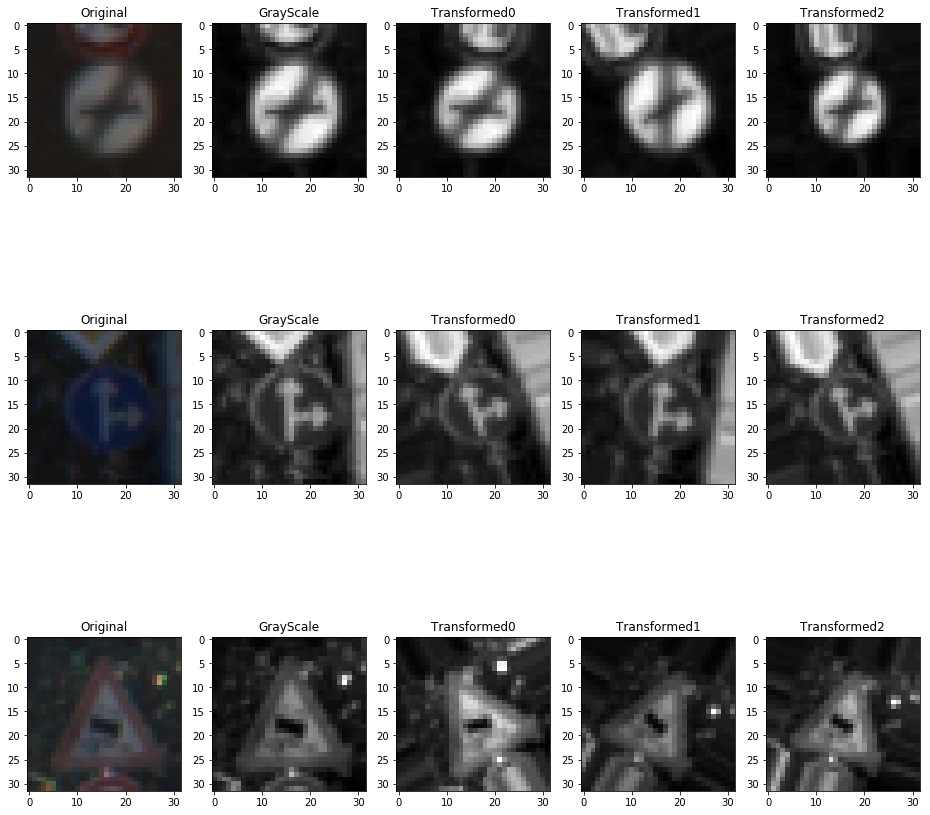
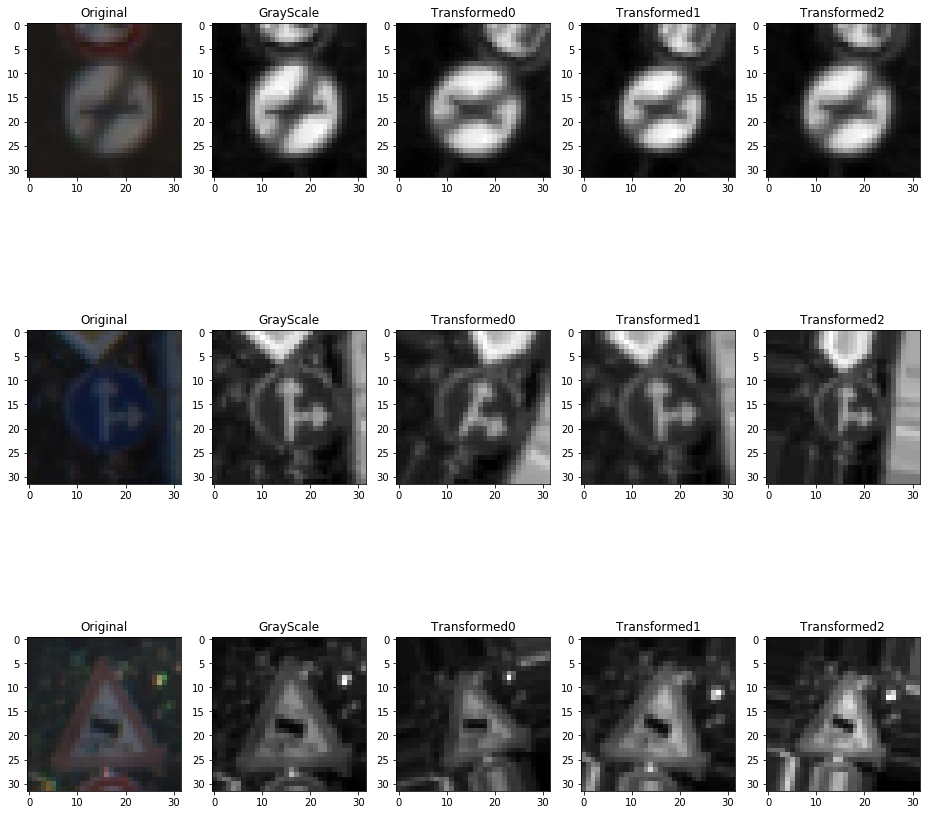
More writeup updates.

diff --git a/writeup.md b/writeup.md
@@ -1,8 +1,8 @@
-#**Traffic Sign Recognition** 
+# **Traffic Sign Recognition** 
 
-##Writeup Template
+## Writeup Template
 
-###You can use this file as a template for your writeup if you want to submit it as a markdown file, but feel free to use some other method and submit a pdf if you prefer.
+### You can use this file as a template for your writeup if you want to submit it as a markdown file, but feel free to use some other method and submit a pdf if you prefer.
 
 ---
 
@@ -22,22 +22,28 @@ The goals / steps of this project are the following:
 [dataset_vis]: ./images/writeup/dataset_vis.png "Visualization"
 [dataset_augmentation]: ./images/writeup/dataset_augmentation.png "Dataset Pre-processing"
 [new_images]: ./images/writeup/new_images.png "New Images"
-[new_image_results]: ./images/writeup/new_image_results "Classification of New Images"
+[new_image_results]: ./images/writeup/new_image_results.png "Classification of New Images"
 [layer1_vis]: ./images/writeup/layer_vis_1.png "Layer-1 Visualization"
 [layer2_vis]: ./images/writeup/layer_vis_2.png "Layer-2 Visualization"
 [layer3_vis]: ./images/writeup/layer_vis_3.png "Layer-3 Visualization"
 [layer4_vis]: ./images/writeup/layer_vis_4.png "Layer-4 Visualization"
 [layer5_vis]: ./images/writeup/layer_vis_5.png "Layer-5 Visualization"
 [layer6_vis]: ./images/writeup/layer_vis_6.png "Layer-6 Visualization"
+[layer1_vis_2]: ./images/writeup/layer_vis_1_1.png "Layer-1 Visualization"
+[layer2_vis_2]: ./images/writeup/layer_vis_2_1.png "Layer-2 Visualization"
+[layer3_vis_2]: ./images/writeup/layer_vis_3_1.png "Layer-3 Visualization"
+[layer4_vis_2]: ./images/writeup/layer_vis_4_1.png "Layer-4 Visualization"
+[layer5_vis_2]: ./images/writeup/layer_vis_5_1.png "Layer-5 Visualization"
+[layer6_vis_2]: ./images/writeup/layer_vis_6_1.png "Layer-6 Visualization"
 [inception_layer]: ./images/writeup/inception_layer.png "Inception Layer"
 
 ## Rubric Points
-###Here I will consider the [rubric points](https://review.udacity.com/#!/rubrics/481/view) individually and describe how I addressed each point in my implementation.  
+### Here I will consider the [rubric points](https://review.udacity.com/#!/rubrics/481/view) individually and describe how I addressed each point in my implementation.  
 
 ---
-###Writeup / README
+### Writeup / README
 
-####1. Provide a Writeup / README that includes all the rubric points and how you addressed each one. You can submit your writeup as markdown or pdf. You can use this template as a guide for writing the report. The submission includes the project code.
+#### 1. Provide a Writeup / README that includes all the rubric points and how you addressed each one. You can submit your writeup as markdown or pdf. You can use this template as a guide for writing the report. The submission includes the project code.
 
 You're reading it! 
 
@@ -46,9 +52,9 @@ You're reading it!
 [HTML Export](https://github.com/cainex/CarND-Traffic-Sign-Classifier-Project/blob/master/Traffic_Sign_Classifier.html)
 
 
-###Data Set Summary & Exploration
+### Data Set Summary & Exploration
 
-####1. Provide a basic summary of the data set. In the code, the analysis should be done using python, numpy and/or pandas methods rather than hardcoding results manually.
+#### 1. Provide a basic summary of the data set. In the code, the analysis should be done using python, numpy and/or pandas methods rather than hardcoding results manually.
 
 Size and shape of training, validation and testing sets was determined by the NumPY shape of the variables filled in by reading in the pickled dataset.
 
@@ -60,15 +66,15 @@ The number of classes was determined by reading in the provided CSV file using t
 * Image data shape = (32, 32, 3)
 * Number of classes = 43
 
-####2. Include an exploratory visualization of the dataset.
+#### 2. Include an exploratory visualization of the dataset.
 
 Below is a visualization of the provided data sets. The histograms show the distribution of each class within the three datasets. We can see that the distribution of images is not uniform across all classes, with many classes being under-represented. A sampling of images is show (along with the corresponding grayscaled version of the image).
 
 ![alt text][dataset_vis]
 
-###Design and Test a Model Architecture
+### Design and Test a Model Architecture
 
-####1. Describe how you preprocessed the image data. What techniques were chosen and why did you choose these techniques? Consider including images showing the output of each preprocessing technique. Pre-processing refers to techniques such as converting to grayscale, normalization, etc. (OPTIONAL: As described in the "Stand Out Suggestions" part of the rubric, if you generated additional data for training, describe why you decided to generate additional data, how you generated the data, and provide example images of the additional data. Then describe the characteristics of the augmented training set like number of images in the set, number of images for each class, etc.)
+#### 1. Describe how you preprocessed the image data. What techniques were chosen and why did you choose these techniques? Consider including images showing the output of each preprocessing technique. Pre-processing refers to techniques such as converting to grayscale, normalization, etc. (OPTIONAL: As described in the "Stand Out Suggestions" part of the rubric, if you generated additional data for training, describe why you decided to generate additional data, how you generated the data, and provide example images of the additional data. Then describe the characteristics of the augmented training set like number of images in the set, number of images for each class, etc.)
 
 The pre-processing steps for the input images is a simple 3-stage pipeline:
 
@@ -85,7 +91,7 @@ The resulting dataset has 4 images for each image provided in the pickled datase
 ![alt text][dataset_augmentation]
 
 
-####2. Describe what your final model architecture looks like including model type, layers, layer sizes, connectivity, etc.) Consider including a diagram and/or table describing the final model.
+#### 2. Describe what your final model architecture looks like including model type, layers, layer sizes, connectivity, etc.) Consider including a diagram and/or table describing the final model.
 
 The final model I created, TrafficSignNet, was inspired by [GoogLeNet](https://www.cs.unc.edu/~wliu/papers/GoogLeNet.pdf). The main distinguishing feature of GoogLeNet is the use of [inception layers](https://www.quora.com/How-does-the-Inception-module-work-in-GoogLeNet-deep-architecture), which I have used in my model. An inception layer consists of 4 parallel layers which operate on the input to the layer, and are concatenated in the depth dimension at the output of the layer:
 
@@ -113,11 +119,11 @@ My final model consisted of the following layers:
 | Fully Connected       |                   |         |                | 43         |
 
 
-####3. Describe how you trained your model. The discussion can include the type of optimizer, the batch size, number of epochs and any hyperparameters such as learning rate.
+#### 3. Describe how you trained your model. The discussion can include the type of optimizer, the batch size, number of epochs and any hyperparameters such as learning rate.
 
 The model was trained using the AdamOptimizer reducing the mean of the cross entropy. The training was performed using a single machine with a Core i5 4670 and a GTX 1080 GPU using a batch size of 128, a learning rate of 0.001, and a dropout of 60%. The training was performed over 30 epochs, with the data set being shuffled between each epoch. The model was saved at each epoch if the validation accuracy was equal to or greater than the validation accuracy of all previous epochs. This captures the best trained model accross all epochs. Using this method could have allowed for early stopping when no more improvement of accuracy was seen, but this didn't seem necessary with 30 epochs. Each epoch ran at approximately 60 iterations/s.
 
-####4. Describe the approach taken for finding a solution and getting the validation set accuracy to be at least 0.93. Include in the discussion the results on the training, validation and test sets and where in the code these were calculated. Your approach may have been an iterative process, in which case, outline the steps you took to get to the final solution and why you chose those steps. Perhaps your solution involved an already well known implementation or architecture. In this case, discuss why you think the architecture is suitable for the current problem.
+#### 4. Describe the approach taken for finding a solution and getting the validation set accuracy to be at least 0.93. Include in the discussion the results on the training, validation and test sets and where in the code these were calculated. Your approach may have been an iterative process, in which case, outline the steps you took to get to the final solution and why you chose those steps. Perhaps your solution involved an already well known implementation or architecture. In this case, discuss why you think the architecture is suitable for the current problem.
 
 My final model results were:
 * Training set accuracy of 99.9%
@@ -126,63 +132,115 @@ My final model results were:
 
 Although this did fluctuate some between different training runs.
 
-If an iterative approach was chosen:
-* What was the first architecture that was tried and why was it chosen?
-* What were some problems with the initial architecture?
-* How was the architecture adjusted and why was it adjusted? Typical adjustments could include choosing a different model architecture, adding or taking away layers (pooling, dropout, convolution, etc), using an activation function or changing the activation function. One common justification for adjusting an architecture would be due to overfitting or underfitting. A high accuracy on the training set but low accuracy on the validation set indicates over fitting; a low accuracy on both sets indicates under fitting.
-* Which parameters were tuned? How were they adjusted and why?
-* What are some of the important design choices and why were they chosen? For example, why might a convolution layer work well with this problem? How might a dropout layer help with creating a successful model?
+I took an iterative approach while developing this model. I initially started with the LeNet model from previous labs. First, I adjusted the first layer to accept the 32x32x1 input shape used in the provided dataset, and adjusted the fully connected layers to reduce down to the 43 output classes. The initial results did not meet the 93% accuracy requirement with only these adjustments.
 
-If a well known architecture was chosen:
-* What architecture was chosen?
-* Why did you believe it would be relevant to the traffic sign application?
-* How does the final model's accuracy on the training, validation and test set provide evidence that the model is working well?
- 
+My next step was to increase the depth of the convolutional layers and adding 1x1 convolutions after each convolution layer to then reduce the depth before max pooling. I also added dropout to the fully-connected layers. With these changes the accuracy on the validation set was much better, but the performance on the additional images was very poor.
 
-###Test a Model on New Images
+I then abandoned this model (still present as TrafficSignGrayNet) to develop the final model inspired by GoogLeNet. While taking some inspiration from GoogLeNet, using the full GoogLeNet network would have been overkill, as it is very large. My first attempt was to replace the convolution layers of my first model with the convolution layers followed by inception layers, but keeping the fully-connected layers in place. While this worked well, the training time was longer, and the performance on the additional images suffered a bit with images that were rotated or scaled/transformed. I then replaced the fully-connected layers with the global average pooling with dropout and a small final fully-connected layer. With this model, the results were conistently in the 97-98% range and performed well on the additional images.
 
-####1. Choose five German traffic signs found on the web and provide them in the report. For each image, discuss what quality or qualities might be difficult to classify.
+At this point, I turned my attention to augmenting the dataset to get slightly better results. I noticed that the model did not always do well with correctly classifying images that were rotated or scaled and translated. So, I augmented the training set with this in mind. This helped to increase the accuracy on images that were transformed in some way, and provided the final accuracy numbers.
 
-Here are five German traffic signs that I found on the web:
+Things I tried that didn't have any noticeable effect or made results worse:
 
-![alt text][image4] ![alt text][image5] ![alt text][image6] 
-![alt text][image7] ![alt text][image8]
+1) Adjusting contrast levels in the pre-processing stage
 
-The first image might be difficult to classify because ...
+    I noticed that in the training set, many images were dark or had poor contrast, even after converting to grayscale. I tried using histogram equalization on the images using OpenCV, but this caused the performance of the model to degrade
 
-####2. Discuss the model's predictions on these new traffic signs and compare the results to predicting on the test set. At a minimum, discuss what the predictions were, the accuracy on these new predictions, and compare the accuracy to the accuracy on the test set (OPTIONAL: Discuss the results in more detail as described in the "Stand Out Suggestions" part of the rubric).
+2) Increasing batch size
+
+    I tried various different batch sizes: 128, 256, 512. What I observed was that with larger batch sizes, the training time was slightly lower, but the number of epochs required was much higher, and I could never get results that were as good as the initial batch size of 128. There seemed to be more overfitting with the delta between the training accuracy and validation accuracy being higher than with the smaller 128 image batch size.
+
+
+### Test a Model on New Images
+
+#### 1. Choose five German traffic signs found on the web and provide them in the report. For each image, discuss what quality or qualities might be difficult to classify.
+
+I found 12 images from the internet, cropped and resized to make them 32x32 images. I then created two additional images from a single image, one with a brightness reduces and Gaussian noise added and one that was partially occluded:
+
+![alt text][new_images]
+
+I chose some images that I thought might be difficult for the model to classify:
+
+Images 0, 3 and 8 are scaled smaller and have additional auxillary signs underneath them.
+
+Images 3, 5 and 11 are rotated in some way, with image 11 at a particularly extreme angle.
+
+For image 13, I added a black bar across the sign to partially occlude the sign.
+
+#### 2. Discuss the model's predictions on these new traffic signs and compare the results to predicting on the test set. At a minimum, discuss what the predictions were, the accuracy on these new predictions, and compare the accuracy to the accuracy on the test set (OPTIONAL: Discuss the results in more detail as described in the "Stand Out Suggestions" part of the rubric).
 
 Here are the results of the prediction:
 
-| Image			        |     Prediction	        					| 
-|:---------------------:|:---------------------------------------------:| 
-| Stop Sign      		| Stop sign   									| 
-| U-turn     			| U-turn 										|
-| Yield					| Yield											|
-| 100 km/h	      		| Bumpy Road					 				|
-| Slippery Road			| Slippery Road      							|
+| Image  | Prediction           |   Actual             |
+|:------:|:--------------------:|:--------------------:|
+|      0 | General caution      | General caution      |
+|      1 | General caution      | General caution      |
+|      2 | No entry             | No entry             |
+|      3 | Speed limit (30km/h) | Speed limit (30km/h) |
+|      4 | Speed limit (30km/h) | Speed limit (30km/h) |
+|      5 | Speed limit (70km/h) | Speed limit (70km/h) |
+|      6 | Speed limit (70km/h) | Speed limit (70km/h) |
+|      7 | Turn right ahead     | Turn right ahead     |
+|      8 | Bumpy road           | Bumpy road           |
+|      9 | Bumpy road           | Bumpy road           |
+|     10 | Bumpy road           | Bumpy road           |
+|     11 | Bumpy road           | Bumpy road           |
+|     12 | Bumpy road           | Bumpy road           |
+|     13 | Bumpy road           | Bumpy road           |
 
+The model was able to correctly classify every image in the set. However, it did have some challenge with images 11 and 13. Prior to adding the augmented training set, image 13 would never classify correctly, and image 11 was mis-classified in roughly 1/2 of the training runs. With the augmented training data, these are now correctly classified in nearly every training run.
 
-The model was able to correctly guess 4 of the 5 traffic signs, which gives an accuracy of 80%. This compares favorably to the accuracy on the test set of ...
+#### 3. Describe how certain the model is when predicting on each of the five new images by looking at the softmax probabilities for each prediction. Provide the top 5 softmax probabilities for each image along with the sign type of each probability. (OPTIONAL: as described in the "Stand Out Suggestions" part of the rubric, visualizations can also be provided such as bar charts)
 
-####3. Describe how certain the model is when predicting on each of the five new images by looking at the softmax probabilities for each prediction. Provide the top 5 softmax probabilities for each image along with the sign type of each probability. (OPTIONAL: as described in the "Stand Out Suggestions" part of the rubric, visualizations can also be provided such as bar charts)
+The output for the top-5 softmax probabilities is:
 
-The code for making predictions on my final model is located in the 11th cell of the Ipython notebook.
+![alt text][new_image_results]
 
-For the first image, the model is relatively sure that this is a stop sign (probability of 0.6), and the image does contain a stop sign. The top five soft max probabilities were
+For most of the images, the model is between 99%-100% sure of its choice. However, for the two difficult images, the certainty is lower.
 
-| Probability         	|     Prediction	        					| 
-|:---------------------:|:---------------------------------------------:| 
-| .60         			| Stop sign   									| 
-| .20     				| U-turn 										|
-| .05					| Yield											|
-| .04	      			| Bumpy Road					 				|
-| .01				    | Slippery Road      							|
+For image 11:
 
+| Guess                        | Certainty |
+|:----------------------------:|:---------:|
+| Bumpy Road                   | 87.010%   |
+| General Caution              | 6.114%    | 
+| Slippery Road                | 3.170%    |
+| Road Work                    | 1.450%    |
+| Wild Animal Crossing         | 1.153%    |
 
-For the second image ... 
+For image 13:
+
+| Guess                        | Certainty |
+|:----------------------------:|:---------:|
+| Bumpy Road                   | 64.290%   |
+| Children Crossing            | 17.785%   | 
+| Road Work                    | 2.642%    |
+| Bicycles Crossing            | 2.300%    |
+| Slippery Road                | 2.064%    |
 
 ### (Optional) Visualizing the Neural Network (See Step 4 of the Ipython notebook for more details)
-####1. Discuss the visual output of your trained network's feature maps. What characteristics did the neural network use to make classifications?
+#### 1. Discuss the visual output of your trained network's feature maps. What characteristics did the neural network use to make classifications?
 
+##### Layer 1
+![alt text][layer1_vis]
+![alt text][layer1_vis_2]
 
+##### Layer 2
+![alt text][layer2_vis]
+![alt text][layer2_vis_2]
+
+##### Layer 3
+![alt text][layer3_vis]
+![alt text][layer3_vis_2]
+
+##### Layer 4
+![alt text][layer4_vis]
+![alt text][layer4_vis_2]
+
+##### First Inception Layer
+![alt text][layer5_vis]
+![alt text][layer5_vis_2]
+
+##### Second Inception Layer
+![alt text][layer6_vis]
+![alt text][layer6_vis_2]
